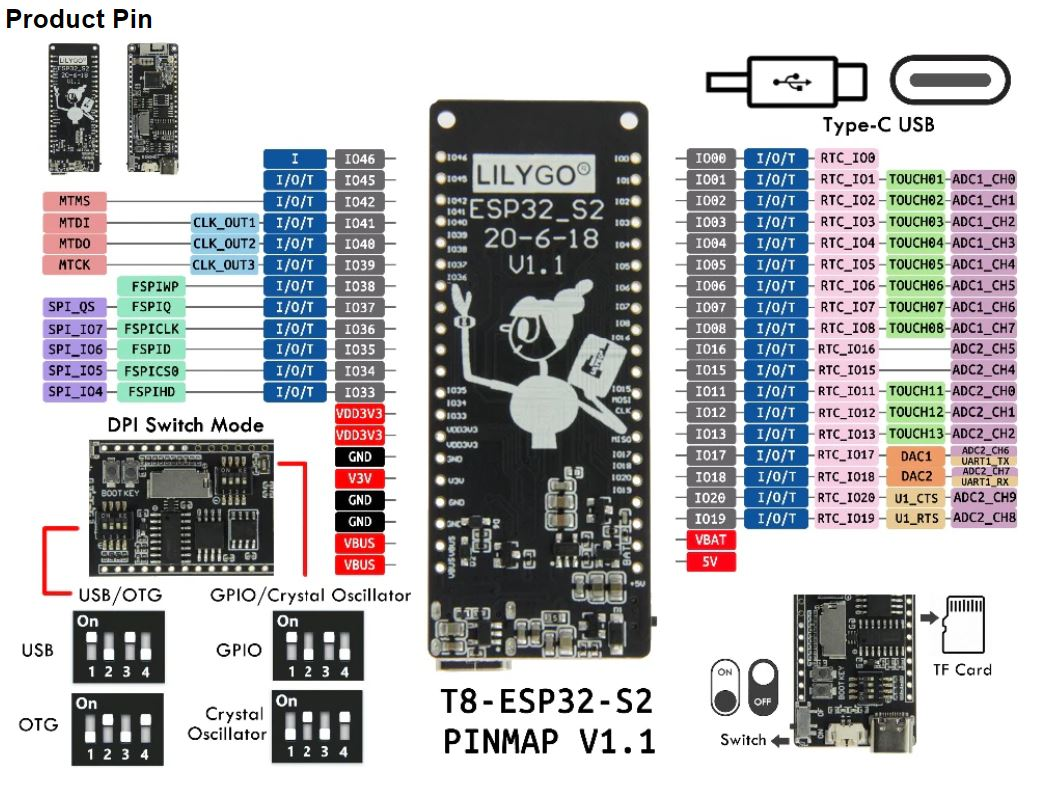
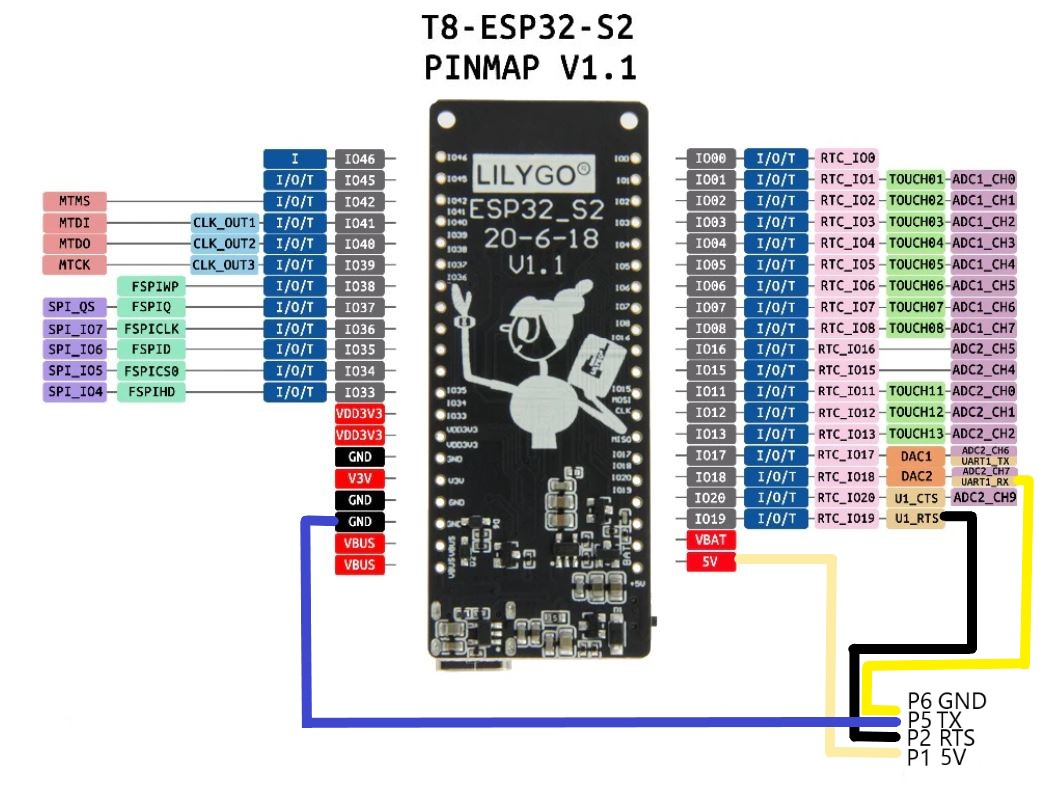
Updated documentation. Foresaw T8 ESP32S2 Wiring

diff --git a/README.md b/README.md
@@ -1,76 +1,72 @@
 # Digital power meter monitor
-The digital power meter monitor is for power meters installed in Belgium. It can measure and show the current or past power measurements in realtime on your phone or pc/laptop.
+The digital power meter monitor is for power meters installed in Belgium. It can measure and show the current or past power measurements in real-time on your phone or PC/laptop.
 Screenshots are in Dutch: 
 
 ![](doc/app/current_measurement_viewing.png)
 
-The digital power meter a "P1 port" through wich the measurements can be received. 
+The digital power meter has a "P1 port" through which the measurements can be received. 
 > Using the "S1 port" will likely destroy the monitor. 
 
 ![](doc/ports_digital_meter.png)
-The P1 port is disabled by default and can be opened through an action on the website of your network operator (like Fluvius) typically. Though, it can take days for it to get activated. 
+The P1 port is disabled by default and can be opened through an action on the website of your network operator (like Fluvius) typically. However, it can take days for it to get activated. 
 
-The monitorring is done using an ESP32 board for which the software is here. 
-In sections below the needed hardware connections to an RJ12 cable that one can plug into the power meter P1 port are described per supported ESP32 board. You need an RJ12 cable with 6 wires, called: 6P6C, not 6P4C
+The monitoring is done using an ESP32 board for which the software is here. 
+In the board sections below the needed hardware connections to an RJ12 cable that one can plug into the power meter P1 port are described per supported ESP32 board. You need an RJ12 cable with 6 wires, called: 6P6C, not 6P4C
 
-Detailed measurements per quarter are stored on an SDCard in json format. Hence we focus on boards that have the SDCard reader integrated, leaving other options open. Use an 8GB micro SD card or up to 64GB (only tested up to 16GB). It is best to reformat the SD Card first and to choose a small cluster size, because the stored files are all small. 
+Detailed measurements per quarter are stored on an SDCard in JSON format. Hence we focus on boards that have the SDCard reader integrated, leaving other options open. Use an 8GB micro SD card or up to 64GB (only tested up to 16GB). It is best to reformat the SD Card first and choose a small cluster size because the stored files are all small. 
 
-The board is connected to Wifi and exposes a web interface, meant for in home access only (http), on which one can see the current measurements almost in realtime (updated every 5 seconds by default) or navigate to historical measurements.
+The board is connected to Wifi and exposes a web interface, meant for in-home access only (HTTP), on which one can see the current measurements almost in real-time (updated every 5 seconds by default) or navigate to historical measurements.
 
-The measurements are show per fixed quarters in the hour because the average watt consumption per quarter can be penalized by higher electricity costs when they exceed 2500 Watts. One incurs an additional cost of approximately 4 euros (as of the 2023 reference) per each exceeded 1000 Watt on the highest quarter-average consumption per month. This pertains to the capacity tariff, known as 'capaciteits tarief' in Dutch."
+The measurements are shown per fixed quarter in the hour because the average watt consumption per quarter can be penalized by higher electricity costs when they exceed 2500 Watts. One incurs an additional cost of approximately 4 euros (as of the 2023 reference) for each additional 1000 Watts on the highest quarter-average consumption per month. This pertains to the capacity tariff, known as 'capaciteits tarief' in Dutch."
 
 One can easily jump back to the details of the quarter causing the month peak by pressing the "month peak" button if the monitor measured that quarter. 
 
 ![](doc/app/month_peak_viewing.png)
 
 
-The source code can deal with multiple boards in theory. 
-In practice the LilyGo TTGO T8 ESP32-C3 board is mostly used and thus certainly working. It is also the most power efficient.
+The source code can deal with multiple boards in theory. In practice, the LilyGo TTGO T8 ESP32-C3 board is mostly used and thus certainly working. It is also the most power-efficient.
 
 
 # Using the source code
-Make sure you have Visual Studio Code with "Platform IO" installed as IDE/Tooling environment. 
-Platform IO has an alien alike icon on the left side of Visual Studio Code to activate it. 
+Make sure you have Visual Studio Code with "Platform IO" installed as an ESP coding environment. 
+Platform IO has an alien-like icon on the left side of Visual Studio Code to activate it. 
 Clicking on it, you should be able to see the "PIO Home" tab. 
 
 Clicking on the project should show a tab per target hardware device. 
 
 For example: "TTGO_T8_ESP32_C3"  
 
-See specific board sections below for their hardware specific setup.
+See specific board sections below for their hardware-specific setup.
 
-To get a working board, you need to build and upload the filesystem image and the C/C++ code. (Do this with Platform IO Project Tasks). Their might be board specific actions needed to get it in a state where the items can be uploaded over the USB cable. 
+To get a working board, you need to build and upload the filesystem image and the C/C++ code. (Do this with Platform IO Project Tasks). There might be board-specific actions needed to get it in a state where the items can be uploaded over the USB cable. 
 
-Make sure there is an SD card in the board. 
+Make sure there is an SD card plugged into the board. 
 
 
 # Using the board with the installed code
-## First startup or statup with Wifi connection problems
-Upon first startup the board will try to locate Wifi connection parameters from the config.json file on the SDCard. 
-If this file doesn't exist or the board cannot connect to the Wifi network, it will startup in configuration mode and act as an access point for a Wifi network "DigitaleMeterMonitor". This uses an IP Subnet 192.168.4.0/24 on which the board has the IP 192.168.4.1.
+## First startup or startup with Wifi connection problems
+Upon first startup, the board will try to locate Wifi connection parameters from the config.json file on the SDCard. 
+If this file doesn't exist or the board cannot connect to the Wifi network, it will start in configuration mode and act as an access point for a Wifi network "DigitaleMeterMonitor". This uses an IP Subnet 192.168.4.0/24 on which the board has the IP 192.168.4.1.
 As such one can connect to that Wifi network and browse to http://192.168.4.1 to configure the Wifi settings.
-Sometimes it is difficult to stay on the board's network since it has no path to the internet.  
-
-In the configuration the board will require a :
+Sometimes it is difficult to stay on the board's network since it has no path to the internet. In the configuration, the board will require a :
 - Wifi network / SSID to connect to
 - Wifi network password
-- IPAddress: The board needs a fixed IPAddress for in home use (No DHCP). Choose a free address, typically ending in a high value. Our default is 192.168.0.250.  
-- Subnet: This is typically 192.168.0.0/24 . This depends on your in house setup / Telecom provider. 
+- IPAddress: The board needs a fixed IPAddress for in-home use (No DHCP). Choose a free address in your home network, typically ending in a high value. Our default is 192.168.0.250. If you have Telenet as an ISP Provided you can have a look at the currently used IP addresses in your home on their website ("Mijn Telenet"). Typically addresses from .0 up to .249 are handed out by DHCP, which is why our default is 250.  
+- Subnet: This is typically 192.168.0.0/24. This depends on your in-house setup / Telecom provider. 
 
-Once this config is submitted it will be saved to the SDCard in the config.json file. 
+Once this config is submitted it will be saved to the SD card in the config.json file. 
 
 The board will then reset and attempt to connect to the Wifi. 
 
-Upon startup the onboard LED will light up bright in several sequences. 
-Eventually the onboard LED should dim. This means it started up ok and is awaiting data from the digital power meter. 
-If the board is connected to the digital power meter using the RJ12 cable (see pinout and connection schemas for each board in sections below), the dimmed LED should even pulsate a couple of times per second. This indicates the measurements are comming in. 
+Upon startup, the onboard LED will light up bright in several sequences. 
+Eventually, the onboard LED should dim. This means it started up ok and is awaiting data from the digital power meter. 
+If the board is connected to the digital power meter using the RJ12 cable (see pinout and connection schemas for each board in sections below), the dimmed LED should even pulsate a couple of times per second. This indicates the measurements are coming in. 
 
 ## Viewing the measurements
-If the board is running you should be able to contact it on it's ip address over http. By default this is http://192.168.0.250
-You should then see the measurements. 
+If the board is running you should be able to contact it on its IP address over HTTP. By default browse to http://192.168.0.250. You should then see the measurements. 
 
 ## Alternative Wifi config
-An alternative way to configure the board to proper Wifi is to power it off, unmount the sdcard from it and put it in a laptop/pc from where you can edit the config.json. 
+An alternative way to configure the board to proper Wifi is to power it off, unmount the SD card from it and put it in a laptop/PC from where you can edit the config.json. 
 
 The config.json looks like:
 ````
@@ -87,12 +83,12 @@ The config.json looks like:
 }
 ````
 
-Change what you want, save, properly unmount the card from the laptop/pc and remount it on the board. 
+Change what you want, save, properly unmount the card from the laptop/PC and remount it on the board. 
 Connect the board. 
 
 ## Debug the startup with the serial monitor
 Upon trouble with startup, one can also use the Platform IO serial monitor to see what the board is doing upon startup. 
-If monitorred serially it emits messages like:
+If monitored serially it emits messages like:
 
   ````
   Digital meter monitor using board: LilyGo TTGO T8 ESP32 C3 V1.1
@@ -120,7 +116,7 @@ If monitorred serially it emits messages like:
 
 The pin values will vary per board type. 
 
-In this example, the dhe device starts up as an access point with an SSID "DigitaleMeterMonitor". 
+In this example, the device starts up as an access point with an SSID "DigitaleMeterMonitor". 
 
 When the Wifi is connecting fine you will see on the debug terminal:
   ````
@@ -163,39 +159,39 @@ http://<ipaddress>/update
 
 This gives you a user interface where build output files can be uploaded for code or data(file system), as needed. 
 
-# Develop on the web application served
+# Web application development
 The data folder contains the files for the web application. 
-Your main intrest will be the index.html file. 
+These files are put in the flash filesystem on the ESP board. This file system is also known as little FS. 
+Your main interest will be the index.html file. 
 This gets current and historic data using HTTP GET calls like: 
 - GET http://&lt;ip&gt;/current/quarter 
 - GET http://&lt;ip&gt;>/meter/2023/12/01/1615W.json
 - GET http://&lt;ip&gt;>/current/month/peak
 
-The index.html page detects when it is served from localhost. In this case it does the above GET calls to 192.168.0.250 hard coded, to facilitate in debugging. 
-
-There is a python httpserver.py file in the data folder which can be run to start service index.html on the local port 8000:
+The index.html page detects when it is served from localhost. In this case, it does the above GET calls to 192.168.0.250 so a functioning board plugged in your home digital power meter can serve the requests. This facilitates debugging because you can change the index.html file faster on the laptop/PC, save it and reload it in your browser to see the change effect. 
+It does mean that the index.html file needs to be served from the laptop/PC. 
+To do this, there is a python httpserver.py file in the data folder which can be run. 
+To start service index.html on the local port 8000:
 ````
   cd data
   python httpserver.py
 ````
-Obviously you need a version of python installed. Tested with python 3.11.1 on a windows pc. 
+You need a version of Python installed. Tested with Python 3.11.1 on a Windows PC. 
 
 After this you can browse to: 
 http://localhost:8000
-and you can start debugging / changing the html and javascript code as you wish. 
+and you can start debugging/changing the html and javascript code as you wish. 
 
-You can do development on your computer with 
-
-# Board specifices
+# Board specifics
 ## TTGO T8 ESP32-C3
 See: [LilyGo ESP32-C3 board with SDCard interface](https://www.lilygo.cc/products/t8-c3)   
 See: [NL Supplier link](https://www.tinytronics.nl/shop/en/development-boards/microcontroller-boards/with-wi-fi/lilygo-ttgo-t8-c3-esp32-c3-4mb-flash)
 
 This is a LilyGO TTGO T8 ESP32-C3 module, which has an integrated SDCard interface. 
 
-- One needed to install special Serial USB drivers and reboot the pc or laptop first before the connection was even recognised as a serial port...
-  See: [Espressif page](https://docs.espressif.com/projects/esp-idf/en/v5.0.2/esp32c3/get-started/establish-serial-connection.html)   
-  Somethimes the serial port only comes up after using some other board and then switch back...
+- One needed to install special Serial USB drivers and reboot the PC or laptop first before the connection was even recognized as a serial port...
+  See: [Espressif page](https://docs.espressif.com/projects/esp-idf/en/v5.0.2/esp32c3/get-started/establish-serial-connection.html)
+  Sometimes the serial port only comes up after using some other board or USB device as well ...
 - To get the first Serial to work for debugging, we needed to set additional build flags so the first hardware serial goes out to the USB connector.
   ```` 
   build_flags = 
@@ -204,30 +200,28 @@ This is a LilyGO TTGO T8 ESP32-C3 module, which has an integrated SDCard interfa
     -DARDUINO_USB_CDC_ON_BOOT=1
   ````  
 - To get the first upload working containing the above, one must manually enter program mode by:
-  - pressing the boot button (do not release)
-  - press the reset button and release
-  - release the boot button
-
-  Then upload...
+  - Pressing the boot button (do not release)
+  - Press the reset button and release
+  - Release the boot button
+  - Then upload...
   
-- After investigation on the web and measurring, it seems the HardwareSerial.begin pulls up the RX pin as needed. 
+- After investigation on the web and measuring, it seems the HardwareSerial.begin pulls up the RX pin as needed. 
   Measured 3.3V on RX1 -> PIN 2
-  This would mean we don't need to foresee an external pull-up resistor - yeah ! 
-  Also discoverred later that there is even a resistor externally to the ESP chip to pull this up.  
+  This would mean we don't need to foresee an external pull-up resistor !!!    
+  We also discovered later that there is even an external-to-the-chip pull-up resistor.  
 
-- Found out the hard way that pin 9 can not be used for RTS, as the connection to the DSRM pulls it down. 
-  Appearantly this influences the ESP32 startup and is goes in program mode...
+- Found out the hard way that pin 9 can not be used for RTS, because the connection to the DSRM pulls it down. This influences the ESP32 startup and it goes into program mode...
 
-- The pinout of DSRM and colors for typical cables and connectio to the ESP board are as follows: 
+- The pinout of DSRM and colors for typical cables and connection to the ESP board are as follows: 
 
-   |RJ12 PIN         | COLORS | ALT COL | ESP32 PIN | Comment |
-   |----------------:|:------:|:-------:|:--------|---------|
-   |P1   5V          | white  | white   | 5V (near SD Card) | Left most wire in RJ11 connector with clip on top at digital meter / most right wire at board | 
-   |P2  RTS Input    | black  | brown   | IO08 - RTS out | Active high INPUT to let the meter send data (Active high due to optocoupler) |
-   |P3  GND for DATA | red    | green   | | Not used |   
-   |P4  No function  | green  | yellow  | | Not used
-   |P5   TX          | yellow | grey    | IO02 RX1 | Inverted due to opto coupler in meter| 
-   |P6   GND for POW | blue   | orange  | GND | |
+   |RJ12 PIN | P1 function | COLORS | ALT COL | ESP32 PIN | ESP Function | Comment |
+   |---------|-------------|:------:|:-------:|--------|-----|---------|
+   |P1 |  5V          | white  | white   | 5V | 5V | 5V is near the SD Card interface on the board.<br> P1 is the leftmost wire in the RJ12 connector when the clip is on top | 
+   |P2 | RTS Input    | black  | brown   | IO08 | RTS out | Active high input to let the meter send data (Active high due to optocoupler) |
+   |P3 | GND for DATA | red    | green   | | | Not used |   
+   |P4 | No function  | green  | yellow  | | | Not used
+   |P5 |  TX          | yellow | grey    | IO02 | RX1 | Inverted due to opto coupler in meter. <br> Inverted in ESP/Software by HardwareSerial initialization | 
+   |P6 |  GND for POWER | blue   | orange  | GND | GND |
 
 - Wiring overview: ![](doc/TTGO_T8_ESP32_C3/pinout%20V1.1.jpg)
 - Soldered and assembled example:  ![](doc/TTGO_T8_ESP32_C3/T8-C3-soldered-assembled.jpg)
@@ -235,41 +229,33 @@ This is a LilyGO TTGO T8 ESP32-C3 module, which has an integrated SDCard interfa
 
 ## TTGO T8 ESP32-S2
 > **Warning**
-> There is still a problem with this board to access the SDCard properly
+> There is still a problem with this board to access the SDCard properly   
 
+See: [LilyGo supplier](https://www.lilygo.cc/products/esp32-s2)   
 See: [Tinytronics supplier in NL for the ESP32-S2 board with SDCard interface](https://www.tinytronics.nl/shop/nl/development-boards/microcontroller-boards/met-wi-fi/lilygo-ttgo-t8-esp32-s2-met-sd-kaart-slot)   
-See: [Github use examples](https://github.com/Xinyuan-LilyGO/ESP32_S2)
+See: [Github examples ](https://github.com/Xinyuan-LilyGO/ESP32_S2)
 
 
 This is a "LILYGO ESP32-S2" module (V1.1)
 This is a board that holds an interface to put in a micro SD card. 
 
 - There are 2 DIP switch blocks on the board that we normally do not touch. 
-  The first DIP sqwitch block is close to the USB connector. 
+  The first DIP switch block is close to the USB connector. 
   When the Connector is to the left of the board, the switch positions are: UP, DOWN, UP, DOWN
   This corresponds to "USB" mode (slave mode -> your PC is the master)
-  In another position one gets OTG mode (master mode, the board is an USB master and it can suppor other devices) 
+  In another position one gets OTG mode (master mode, the board is an USB master and it can support other devices) 
   We never use the OTG mode. 
  
-After programming the board with the filesystem and code, it should startup normally. 
+After programming the board with the filesystem and code, it should start normally. 
 
+- The pinout and colors are as follows: 
+   |RJ12 PIN | P1 Function | COLORS | ALT COL | ESP32 PIN | ESP Function | Comment |
+   |---------|-------------|:------:|:-------:|:----------|--------------|---------|
+   | P1 | 5V         |  white |         | 5V        | 5V | Left most wire in RJ12 connector with clip on top at digital meter |
+   | P2 | RTS Input  |  black |         | PIN 19   | RTS Out | Active high input to let the meter send data (Active high due to optocoupler) |
+   | P3 | GND for DATA| red  |         |           | | Not used |
+   | P4 | No function |green |         |           | | Not used |
+   | P5 | TX         | yellow|         | PIN 18    | RX1 | Open collector output, hence inverted.<br> Inverted at reception by ESP Hardware serial initialization.<br> Pulled up on ESP board. | 
+   | P6 | GND for POWER|blue |         | GND       | GND ||
 
-
-New board hardware wiring needed...
-
-  If you buy a cable and cut it in half to solder on end to the board, you have one end with "normal" colors and one end with "reversed" colors. 
-- The pinout and colors are as follows (from LEFT to right when viewing with plug up with the lip on top): 
-   PIN               COLORS  ALT COL
-   P1   5V           white - left most wire in RJ11 connector with clip on top at digital meter / most right wire at board 
-   P2   RTS Input    bl?ack - Active high INPUT to let the meter send data (Active hight due to optocoupler)
-   P3   GND for DATA re?d
-   P4   No function  gr?een
-   P5   TX           yel?low - open collector output. 
-   P6   GND for POW  whi?te   blue 
-
-- The connections of the RJ12 pins to the board are as follows
-  - P1 to 5V on the board (near the on/off switch). 
-  - P2 to pin 19 on the board, 2 holes above the 5V pin. 
-  - P3 + P6 GND to a GND on the board (other side than 5V)
-  - P5 to pin 18 on the board (RX). pin 18 is two holes up from pin 19 ! 
-    This pin 18 is pulled up to 3.3V internally automatically on this board, matching with the open collector output
+- Wiring overview: ![](doc/TTGO_T8_ESP32_S2/pinout%20V1.1.jpg)
